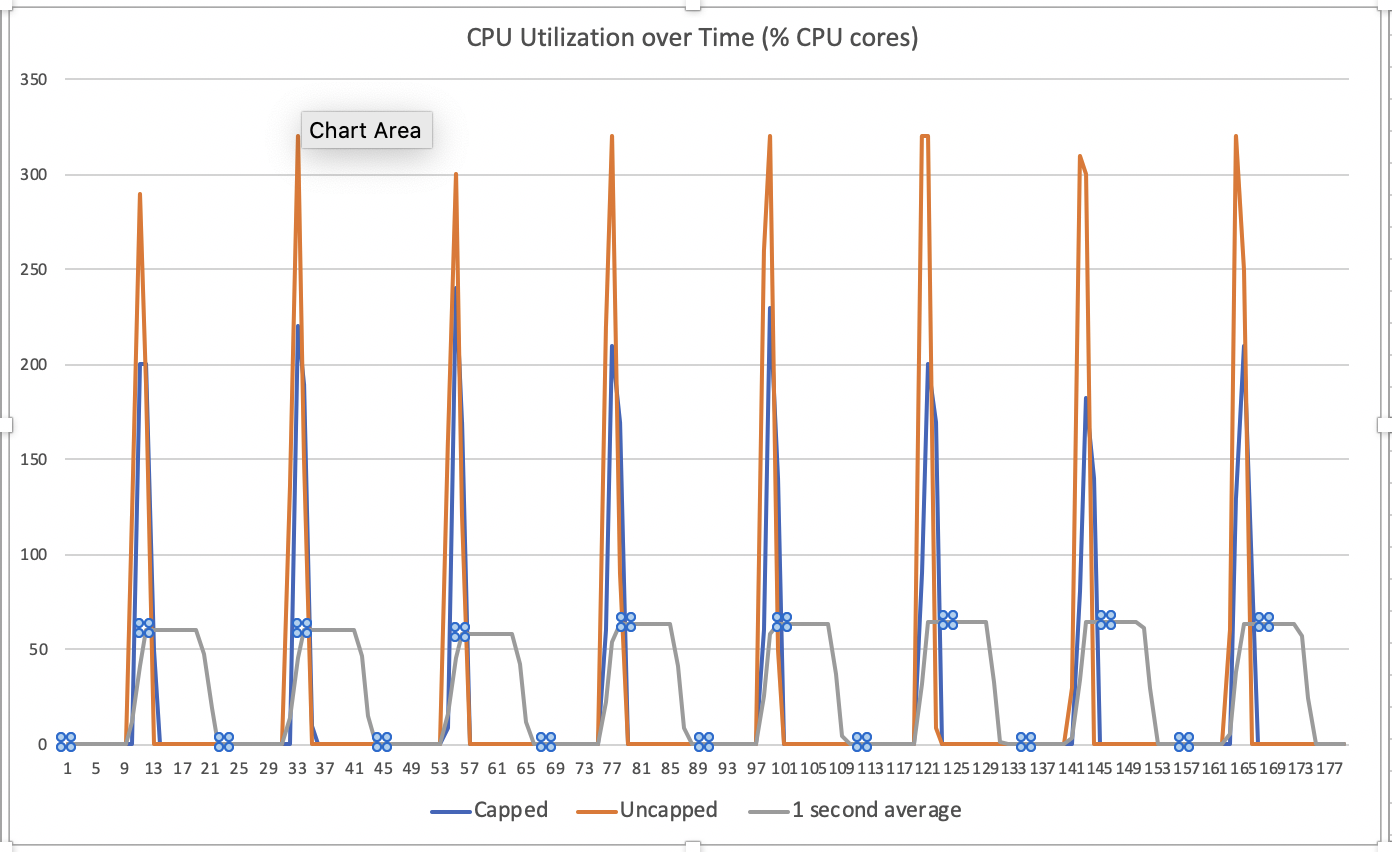
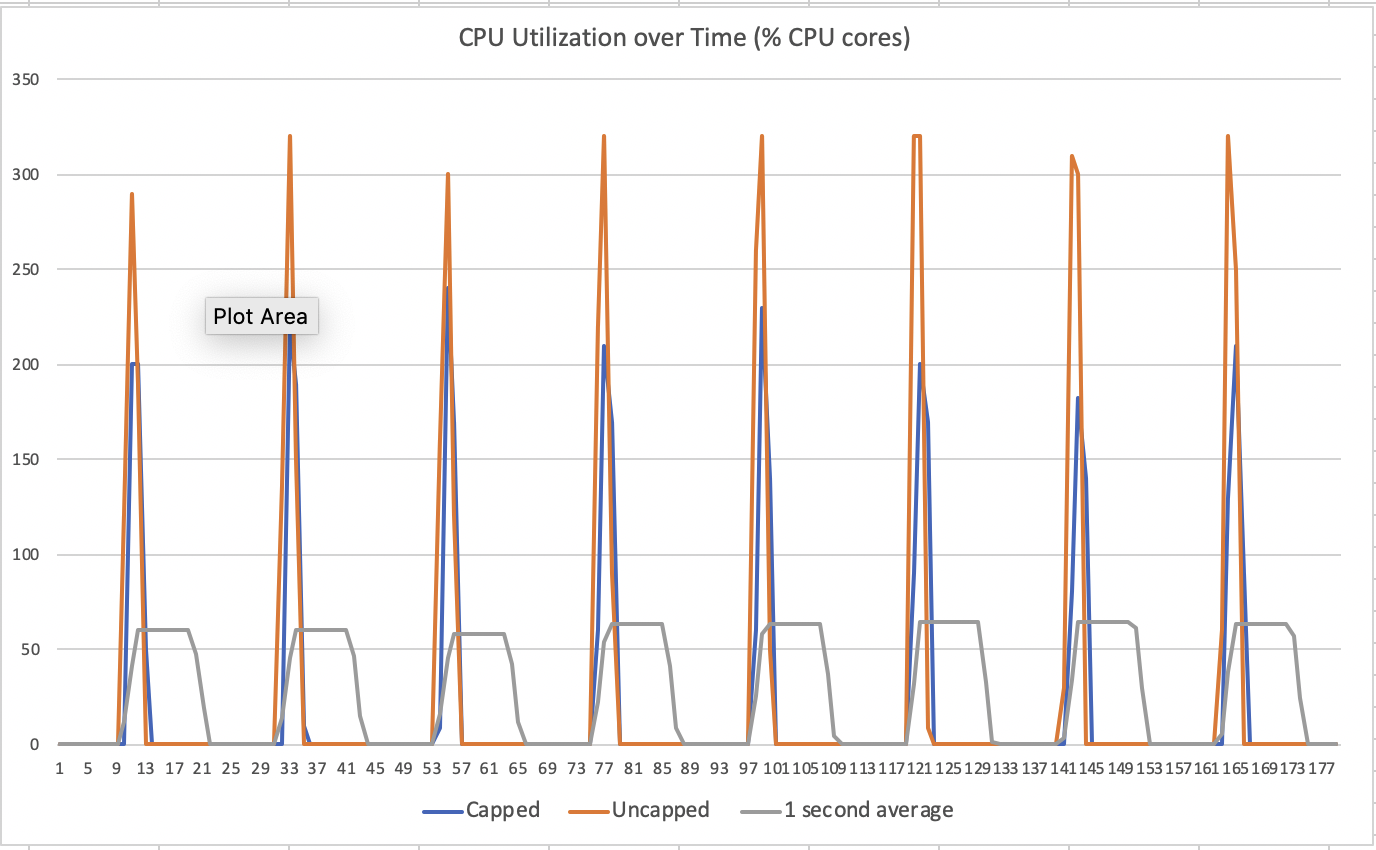
Add performance graph

diff --git a/README.md b/README.md
@@ -114,6 +114,8 @@ was derived in the nodes using:
 top -b -n 1000 -d 0.1 -p 2053218 | grep scheduler
 ```
 
+![](images/perf-graph.png)
+
 As it can be seen in the figure, the average utilization over 1 second
 intervals when no caps or limits are applied is well below 1 core. However,
 because the instantaneous CPU utilization over shorter timescales exceed
